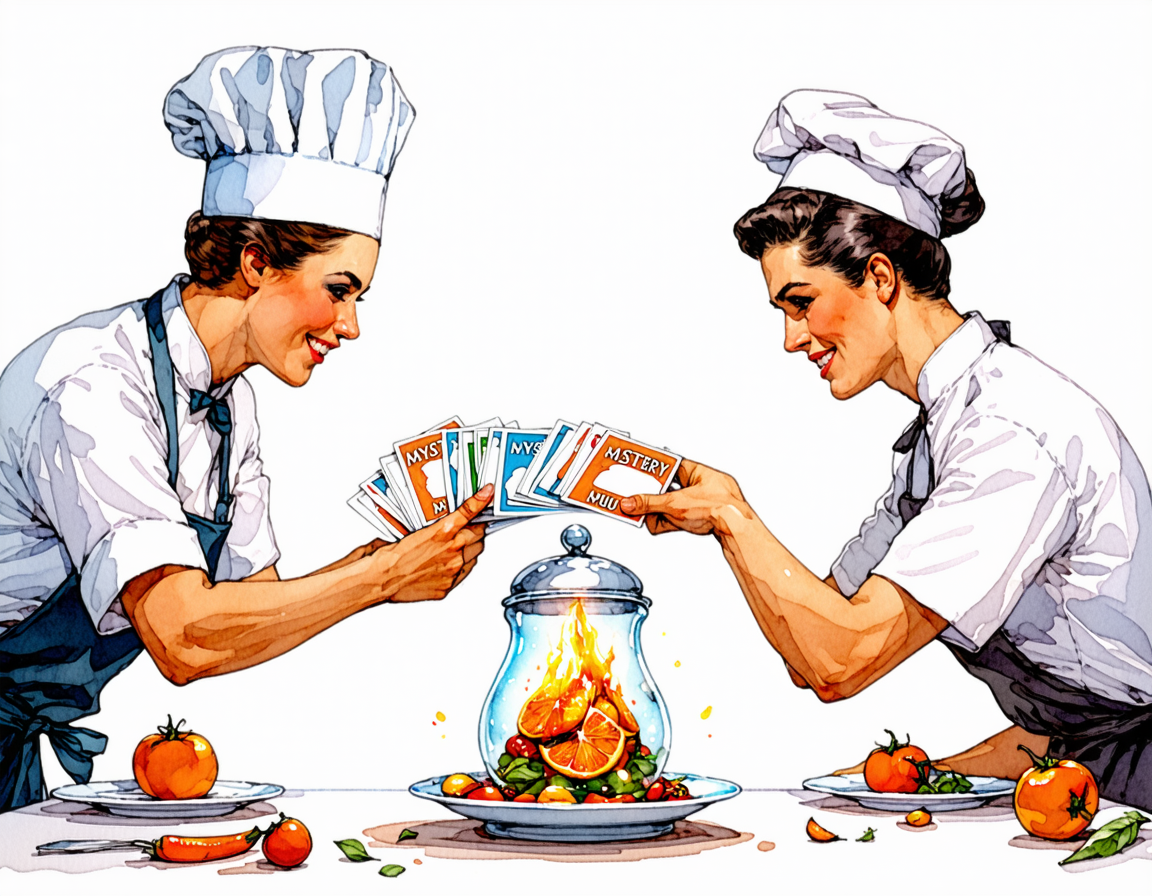
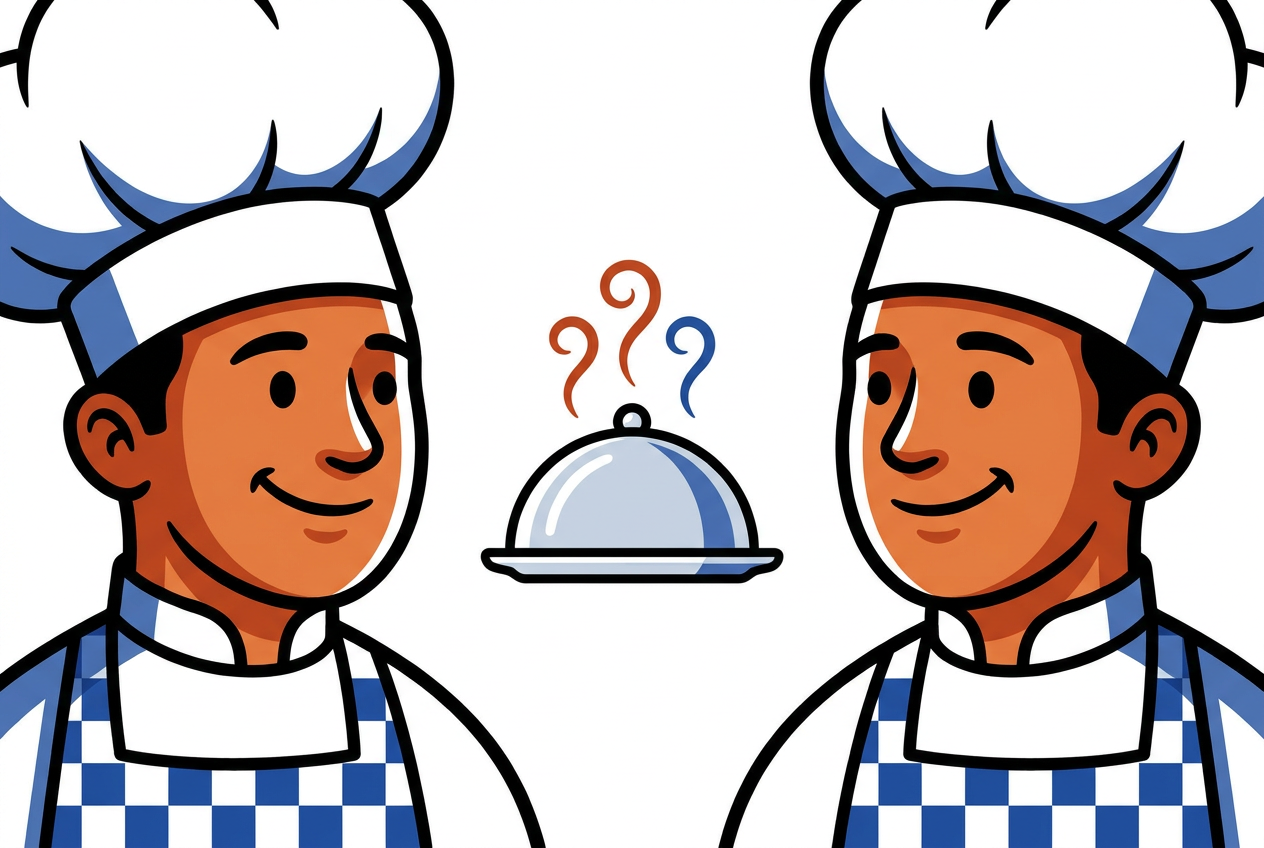
feat: add the Venice image helper and the hero illustration

diff --git a/scripts/venice-image.py b/scripts/venice-image.py
@@ -1,44 +1,59 @@
 #!/usr/bin/env python3
 """Generate one image with the Venice API and write it to disk.
 
-Usage: venice-image.py <out.png> "<prompt>" [model] [width] [height]
+Usage:
+  venice-image.py <out.png> "<prompt>" [model] [WxH | aspect-ratio]
+
+Examples:
+  venice-image.py hero.png "a cloche" venice-sd35 1152x896
+  venice-image.py hero.png "a cloche" nano-banana-pro 3:2
+
+Older models take explicit width/height; newer ones take an aspect ratio.
 """
 import base64
 import json
 import os
 import sys
+import urllib.error
 import urllib.request
+
+if len(sys.argv) < 3:
+    sys.exit(__doc__)
 
 out, prompt = sys.argv[1], sys.argv[2]
 model = sys.argv[3] if len(sys.argv) > 3 else "venice-sd35"
-width = int(sys.argv[4]) if len(sys.argv) > 4 else 1024
-height = int(sys.argv[5]) if len(sys.argv) > 5 else 1024
+size = sys.argv[4] if len(sys.argv) > 4 else "1024x1024"
 
 key = os.environ.get("VENICE_API_KEY")
 if not key:
     sys.exit("VENICE_API_KEY is not set")
 
-body = json.dumps(
-    {
-        "model": model,
-        "prompt": prompt,
-        "width": width,
-        "height": height,
-        "format": "png",
-        "safe_mode": False,
-        "hide_watermark": True,
-    }
-).encode()
+body: dict[str, object] = {
+    "model": model,
+    "prompt": prompt,
+    "format": "png",
+    "safe_mode": False,
+    "hide_watermark": True,
+}
+if ":" in size:
+    body["aspect_ratio"] = size
+else:
+    w, _, h = size.partition("x")
+    body["width"], body["height"] = int(w), int(h)
 
 req = urllib.request.Request(
     "https://api.venice.ai/api/v1/image/generate",
-    data=body,
+    data=json.dumps(body).encode(),
     headers={"Authorization": f"Bearer {key}", "Content-Type": "application/json"},
     method="POST",
 )
 
-with urllib.request.urlopen(req, timeout=180) as resp:
-    payload = json.load(resp)
+try:
+    with urllib.request.urlopen(req, timeout=240) as resp:
+        payload = json.load(resp)
+except urllib.error.HTTPError as err:
+    detail = err.read().decode(errors="replace")
+    sys.exit(f"HTTP {err.code} from Venice for model {model}: {detail[:500]}")
 
 images = payload.get("images") or []
 if not images:
@@ -47,9 +62,9 @@ if not images:
 data = images[0]
 raw = base64.b64decode(data) if not data.startswith("http") else None
 if raw is None:
-    with urllib.request.urlopen(data, timeout=180) as r:
+    with urllib.request.urlopen(data, timeout=240) as r:
         raw = r.read()
 
 with open(out, "wb") as fh:
     fh.write(raw)
-print(f"wrote {out} ({len(raw)} bytes) via {model}")
+print(f"wrote {out} ({len(raw)} bytes) via {model} at {size}")
